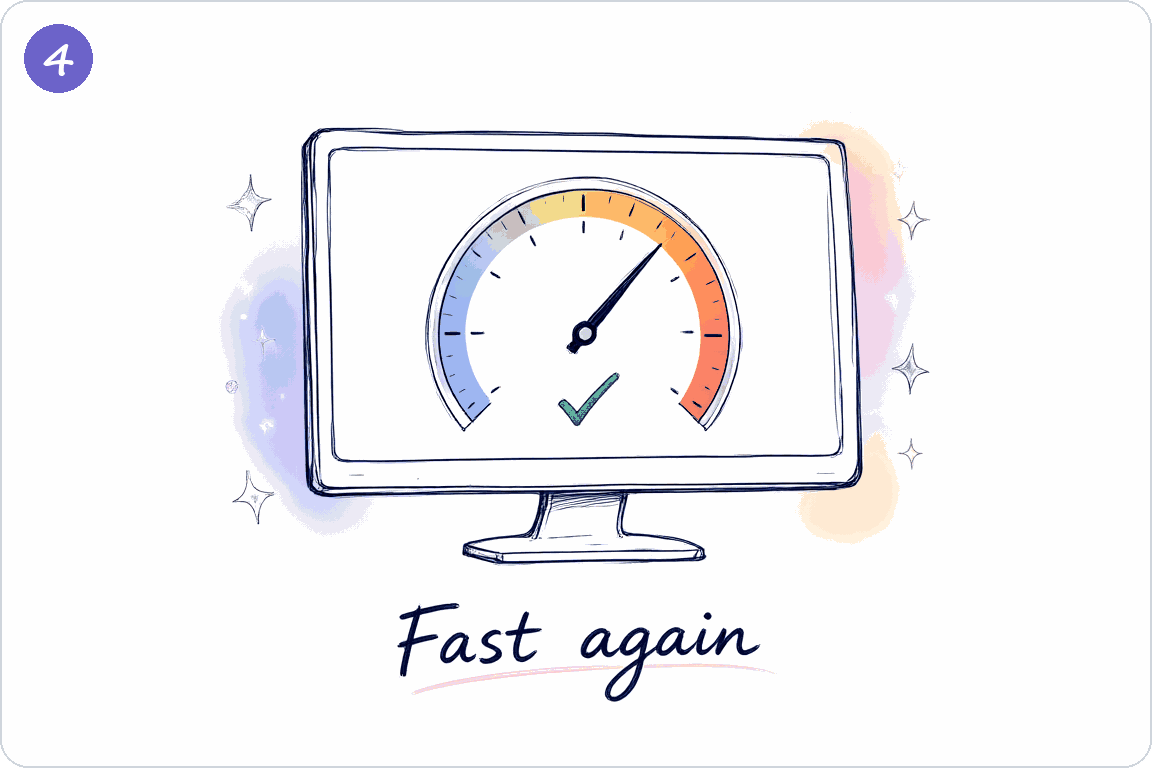
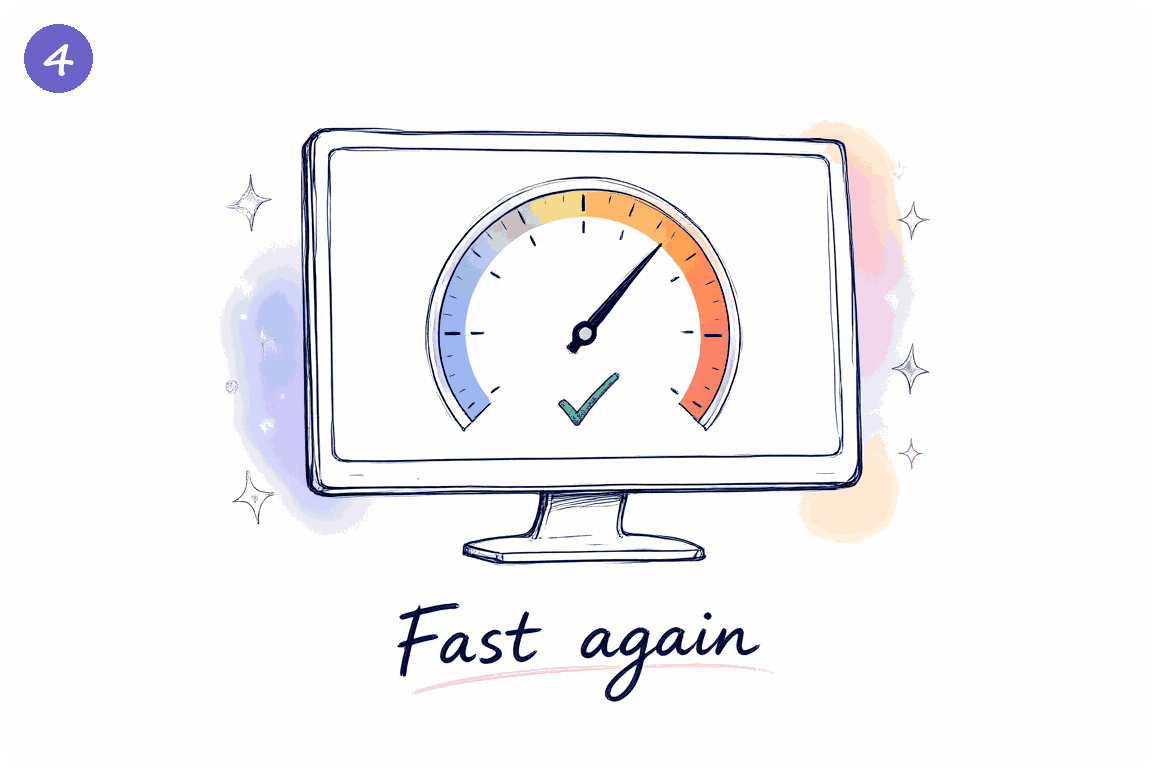
Remove table and image borders from the intro images

diff --git a/docs/images/qwen/finish_image.py b/docs/images/qwen/finish_image.py
@@ -5,8 +5,7 @@ Use: uv run --with pillow --with numpy python finish_image.py RAW.png STEP_NUMBE
 What it does:
 1. Makes the near-white background pure white.
 2. Draws a round badge with the step number at the top left.
-3. Adds a thin gray border with round corners. Corners are transparent.
-   The image then looks like a white card on the dark GitHub theme.
+3. Rounds the corners. Corners are transparent. There is no border line.
 4. Reduces the PNG to 256 colors.
 """
 import sys
@@ -15,7 +14,6 @@ import numpy as np
 from PIL import Image, ImageDraw, ImageFont
 
 BADGE_COLOR = (108, 99, 201)  # violet-blue from the palette
-BORDER_COLOR = (208, 215, 222)
 RADIUS = 28
 
 
@@ -41,9 +39,6 @@ def round_card(img):
     ImageDraw.Draw(mask).rounded_rectangle((0, 0, *img.size), RADIUS, fill=255)
     out = img.convert("RGBA")
     out.putalpha(mask)
-    ImageDraw.Draw(out).rounded_rectangle(
-        (0, 0, img.size[0] - 1, img.size[1] - 1), RADIUS, outline=BORDER_COLOR + (255,), width=2
-    )
     return out
 
 

diff --git a/README.zh-TW.md b/README.zh-TW.md
@@ -11,16 +11,12 @@
 
 **舊檔案讀取變慢？先做唯讀掃描。**
 
-<table>
-  <tr>
-    <td width="50%"><img src="docs/images/qwen/step1.png" alt="步驟 1：螢幕左半是 CrystalDiskMark，顯示健康狀態良好 100%；右半是工作管理員，顯示磁碟使用率 100%。"></td>
-    <td width="50%"><img src="docs/images/qwen/step2.png" alt="步驟 2：電量快用完的 SSD，旁邊是舊資料夾。舊檔案的電荷流失。"></td>
-  </tr>
-  <tr>
-    <td width="50%"><img src="docs/images/qwen/step3.png" alt="步驟 3：放大鏡檢查 SSD 上的資料夾。掃描會讀取慢的檔案。"></td>
-    <td width="50%"><img src="docs/images/qwen/step4.png" alt="步驟 4：螢幕上的速度表指向高速，旁邊有勾號。檔案又讀得快了。"></td>
-  </tr>
-</table>
+<p align="center">
+  <img src="docs/images/qwen/step1.png" width="49%" alt="步驟 1：螢幕左半是 CrystalDiskMark，顯示健康狀態良好 100%；右半是工作管理員，顯示磁碟使用率 100%。">
+  <img src="docs/images/qwen/step2.png" width="49%" alt="步驟 2：電量快用完的 SSD，旁邊是舊資料夾。舊檔案的電荷流失。">
+  <img src="docs/images/qwen/step3.png" width="49%" alt="步驟 3：放大鏡檢查 SSD 上的資料夾。掃描會讀取慢的檔案。">
+  <img src="docs/images/qwen/step4.png" width="49%" alt="步驟 4：螢幕上的速度表指向高速，旁邊有勾號。檔案又讀得快了。">
+</p>
 
 效果取決於磁碟。圖中文字為英文。
 

diff --git a/README.md b/README.md
@@ -11,16 +11,12 @@
 
 **Old files read slowly? Start with a read-only scan.**
 
-<table>
-  <tr>
-    <td width="50%"><img src="docs/images/qwen/step1.png" alt="Step 1: a monitor shows CrystalDiskMark with Good 100% health on the left and Task Manager with Disk 100% on the right."></td>
-    <td width="50%"><img src="docs/images/qwen/step2.png" alt="Step 2: an SSD with an almost empty battery next to old folders. Old files lose charge."></td>
-  </tr>
-  <tr>
-    <td width="50%"><img src="docs/images/qwen/step3.png" alt="Step 3: a magnifying glass over folders on an SSD. The scan reads slow files."></td>
-    <td width="50%"><img src="docs/images/qwen/step4.png" alt="Step 4: a monitor with a fast speed gauge and a check mark. Files read fast again."></td>
-  </tr>
-</table>
+<p align="center">
+  <img src="docs/images/qwen/step1.png" width="49%" alt="Step 1: a monitor shows CrystalDiskMark with Good 100% health on the left and Task Manager with Disk 100% on the right.">
+  <img src="docs/images/qwen/step2.png" width="49%" alt="Step 2: an SSD with an almost empty battery next to old folders. Old files lose charge.">
+  <img src="docs/images/qwen/step3.png" width="49%" alt="Step 3: a magnifying glass over folders on an SSD. The scan reads slow files.">
+  <img src="docs/images/qwen/step4.png" width="49%" alt="Step 4: a monitor with a fast speed gauge and a check mark. Files read fast again.">
+</p>
 
 Results depend on the drive.
 

diff --git a/docs/images/qwen/PROMPTS.md b/docs/images/qwen/PROMPTS.md
@@ -15,7 +15,7 @@ These four images were made with Qwen-Image-2.1-Turbo on a local PC. Use this fi
 | Sampler | euler |
 | Size | 1152 x 768 pixels |
 | Negative prompt | empty |
-| After making | Run `finish_image.py` (white background, step number badge, round border, 256 colors) |
+| After making | Run `finish_image.py` (white background, step number badge, round corners, 256 colors) |
 
 ## Style words
 
@@ -66,4 +66,4 @@ RTX 4070 Laptop GPU with 8 GB VRAM. One image takes about 25 to 33 seconds when 
 ## Change log
 
 - 2026-10-18: first version of the four images.
-- 2026-10-18: all backgrounds pure white, step number badges, round gray border for the dark theme.
+- 2026-10-18: all backgrounds pure white, step number badges, round corners and no border line.
